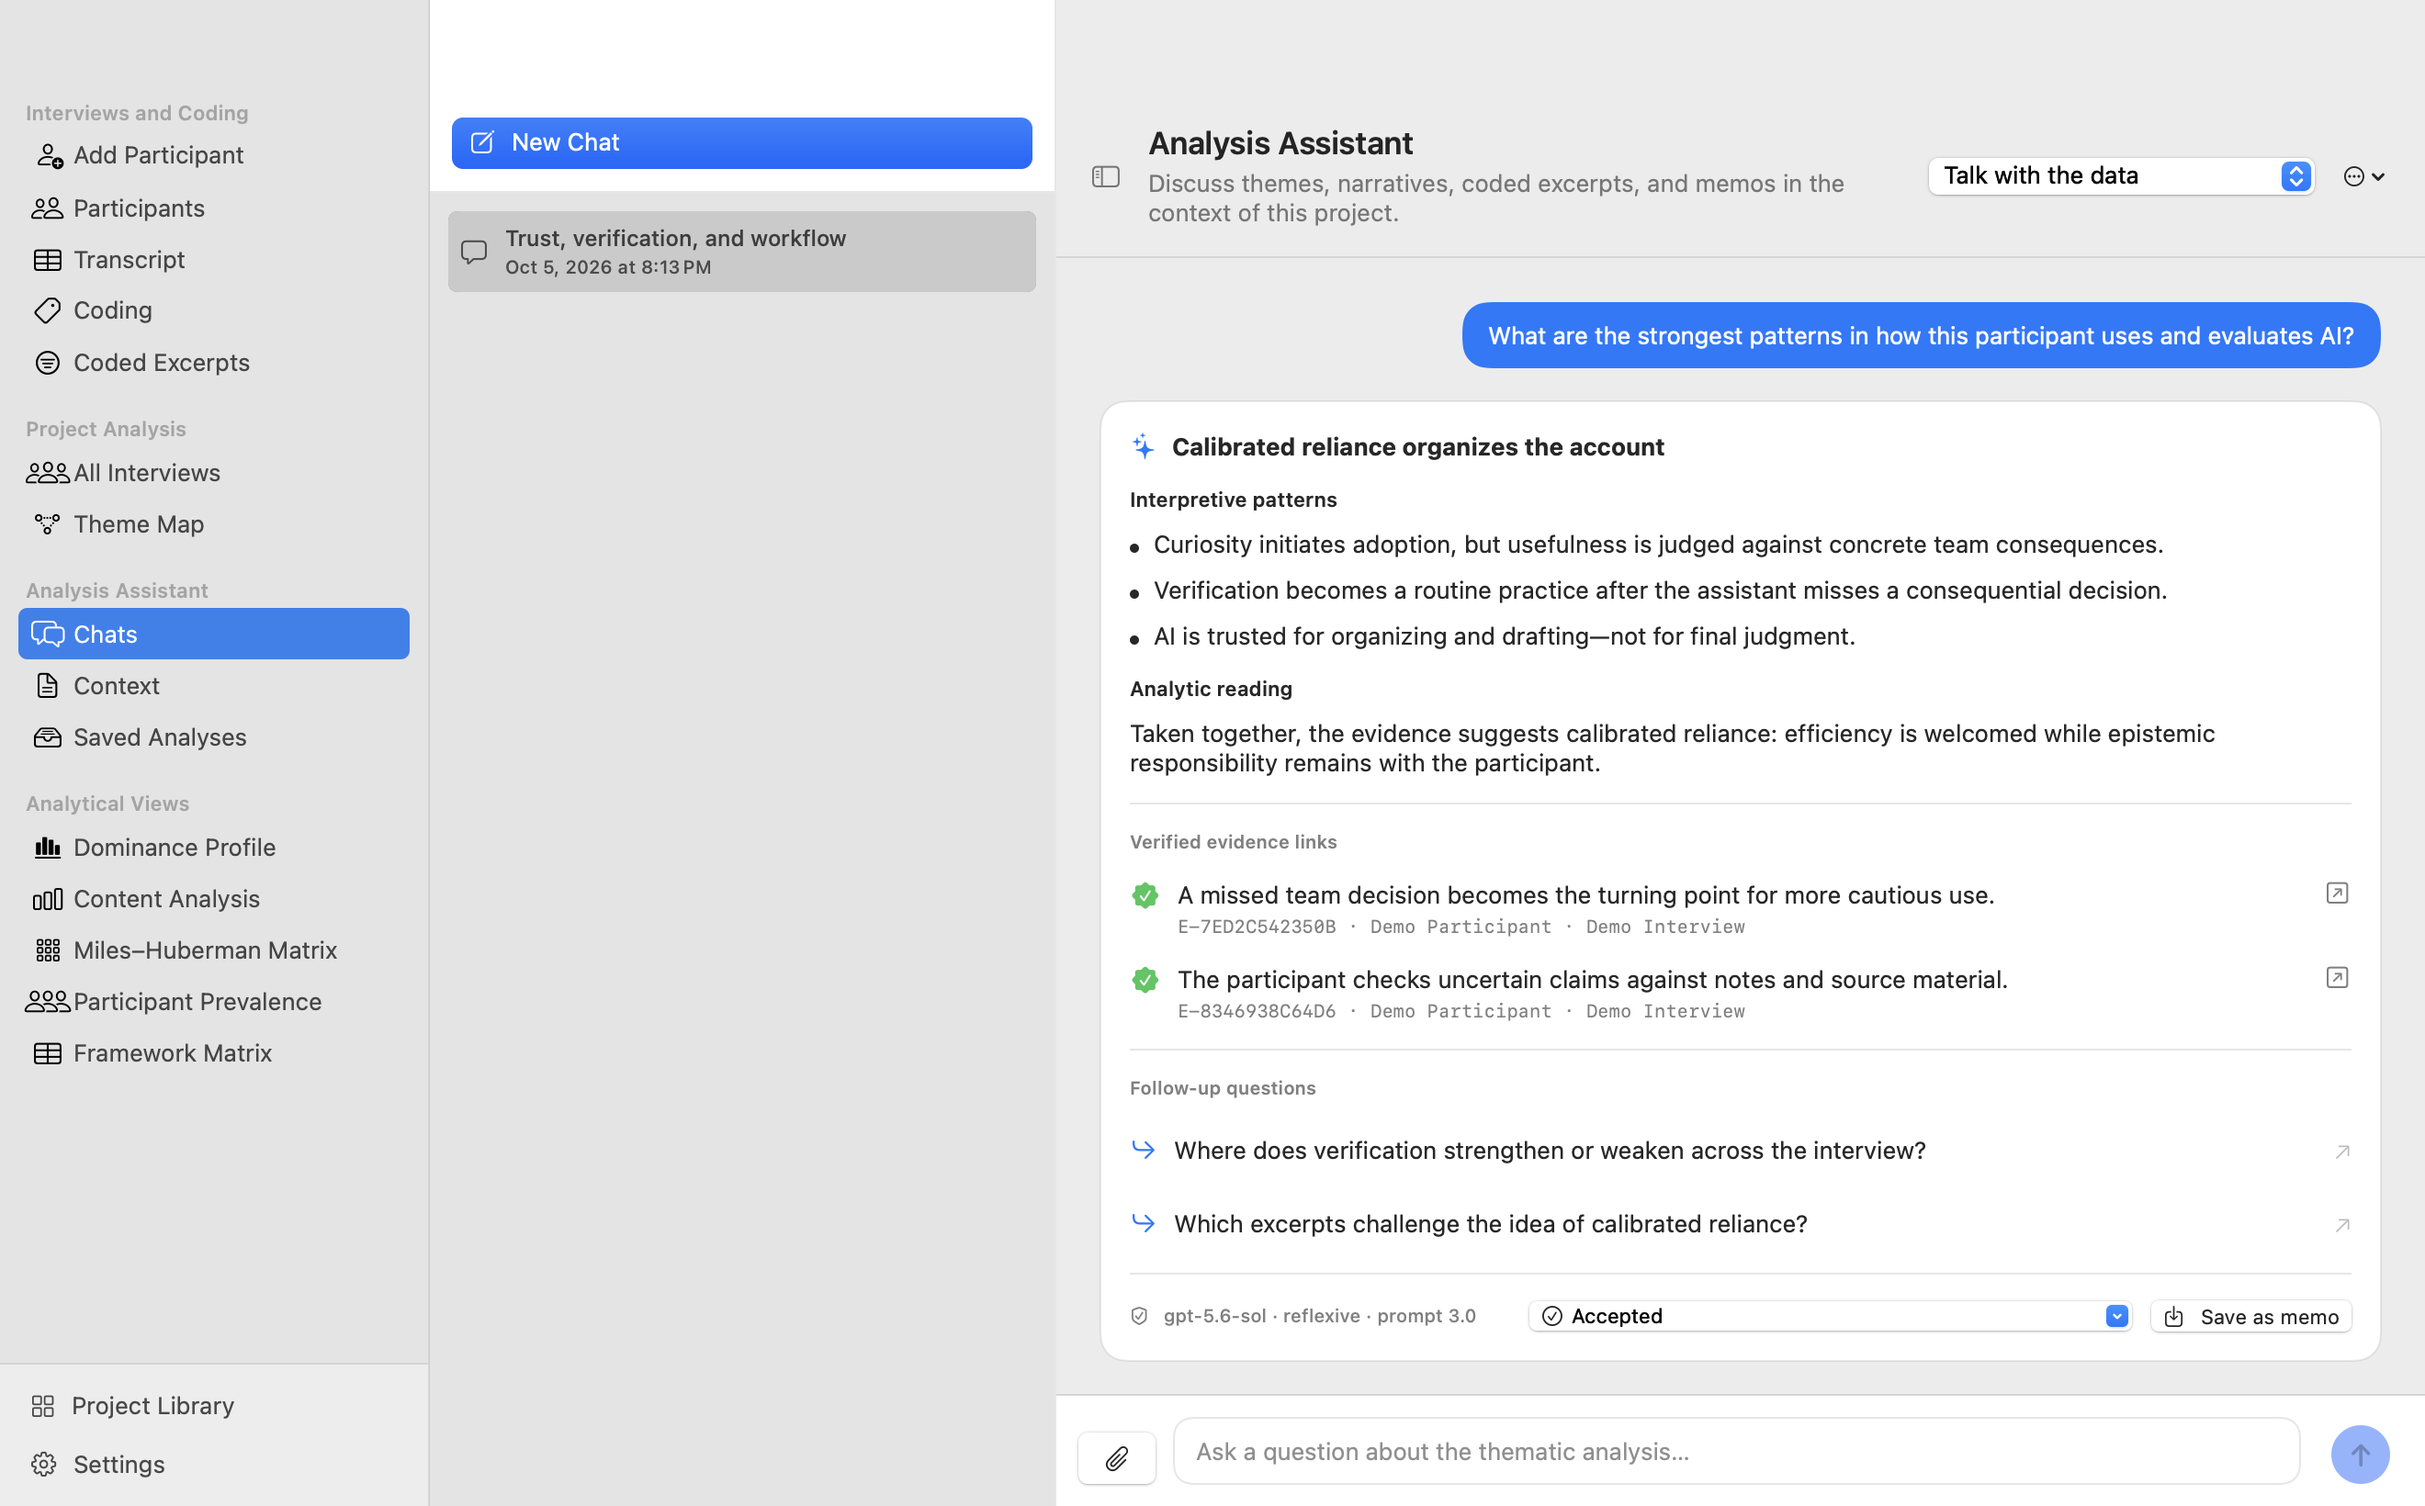
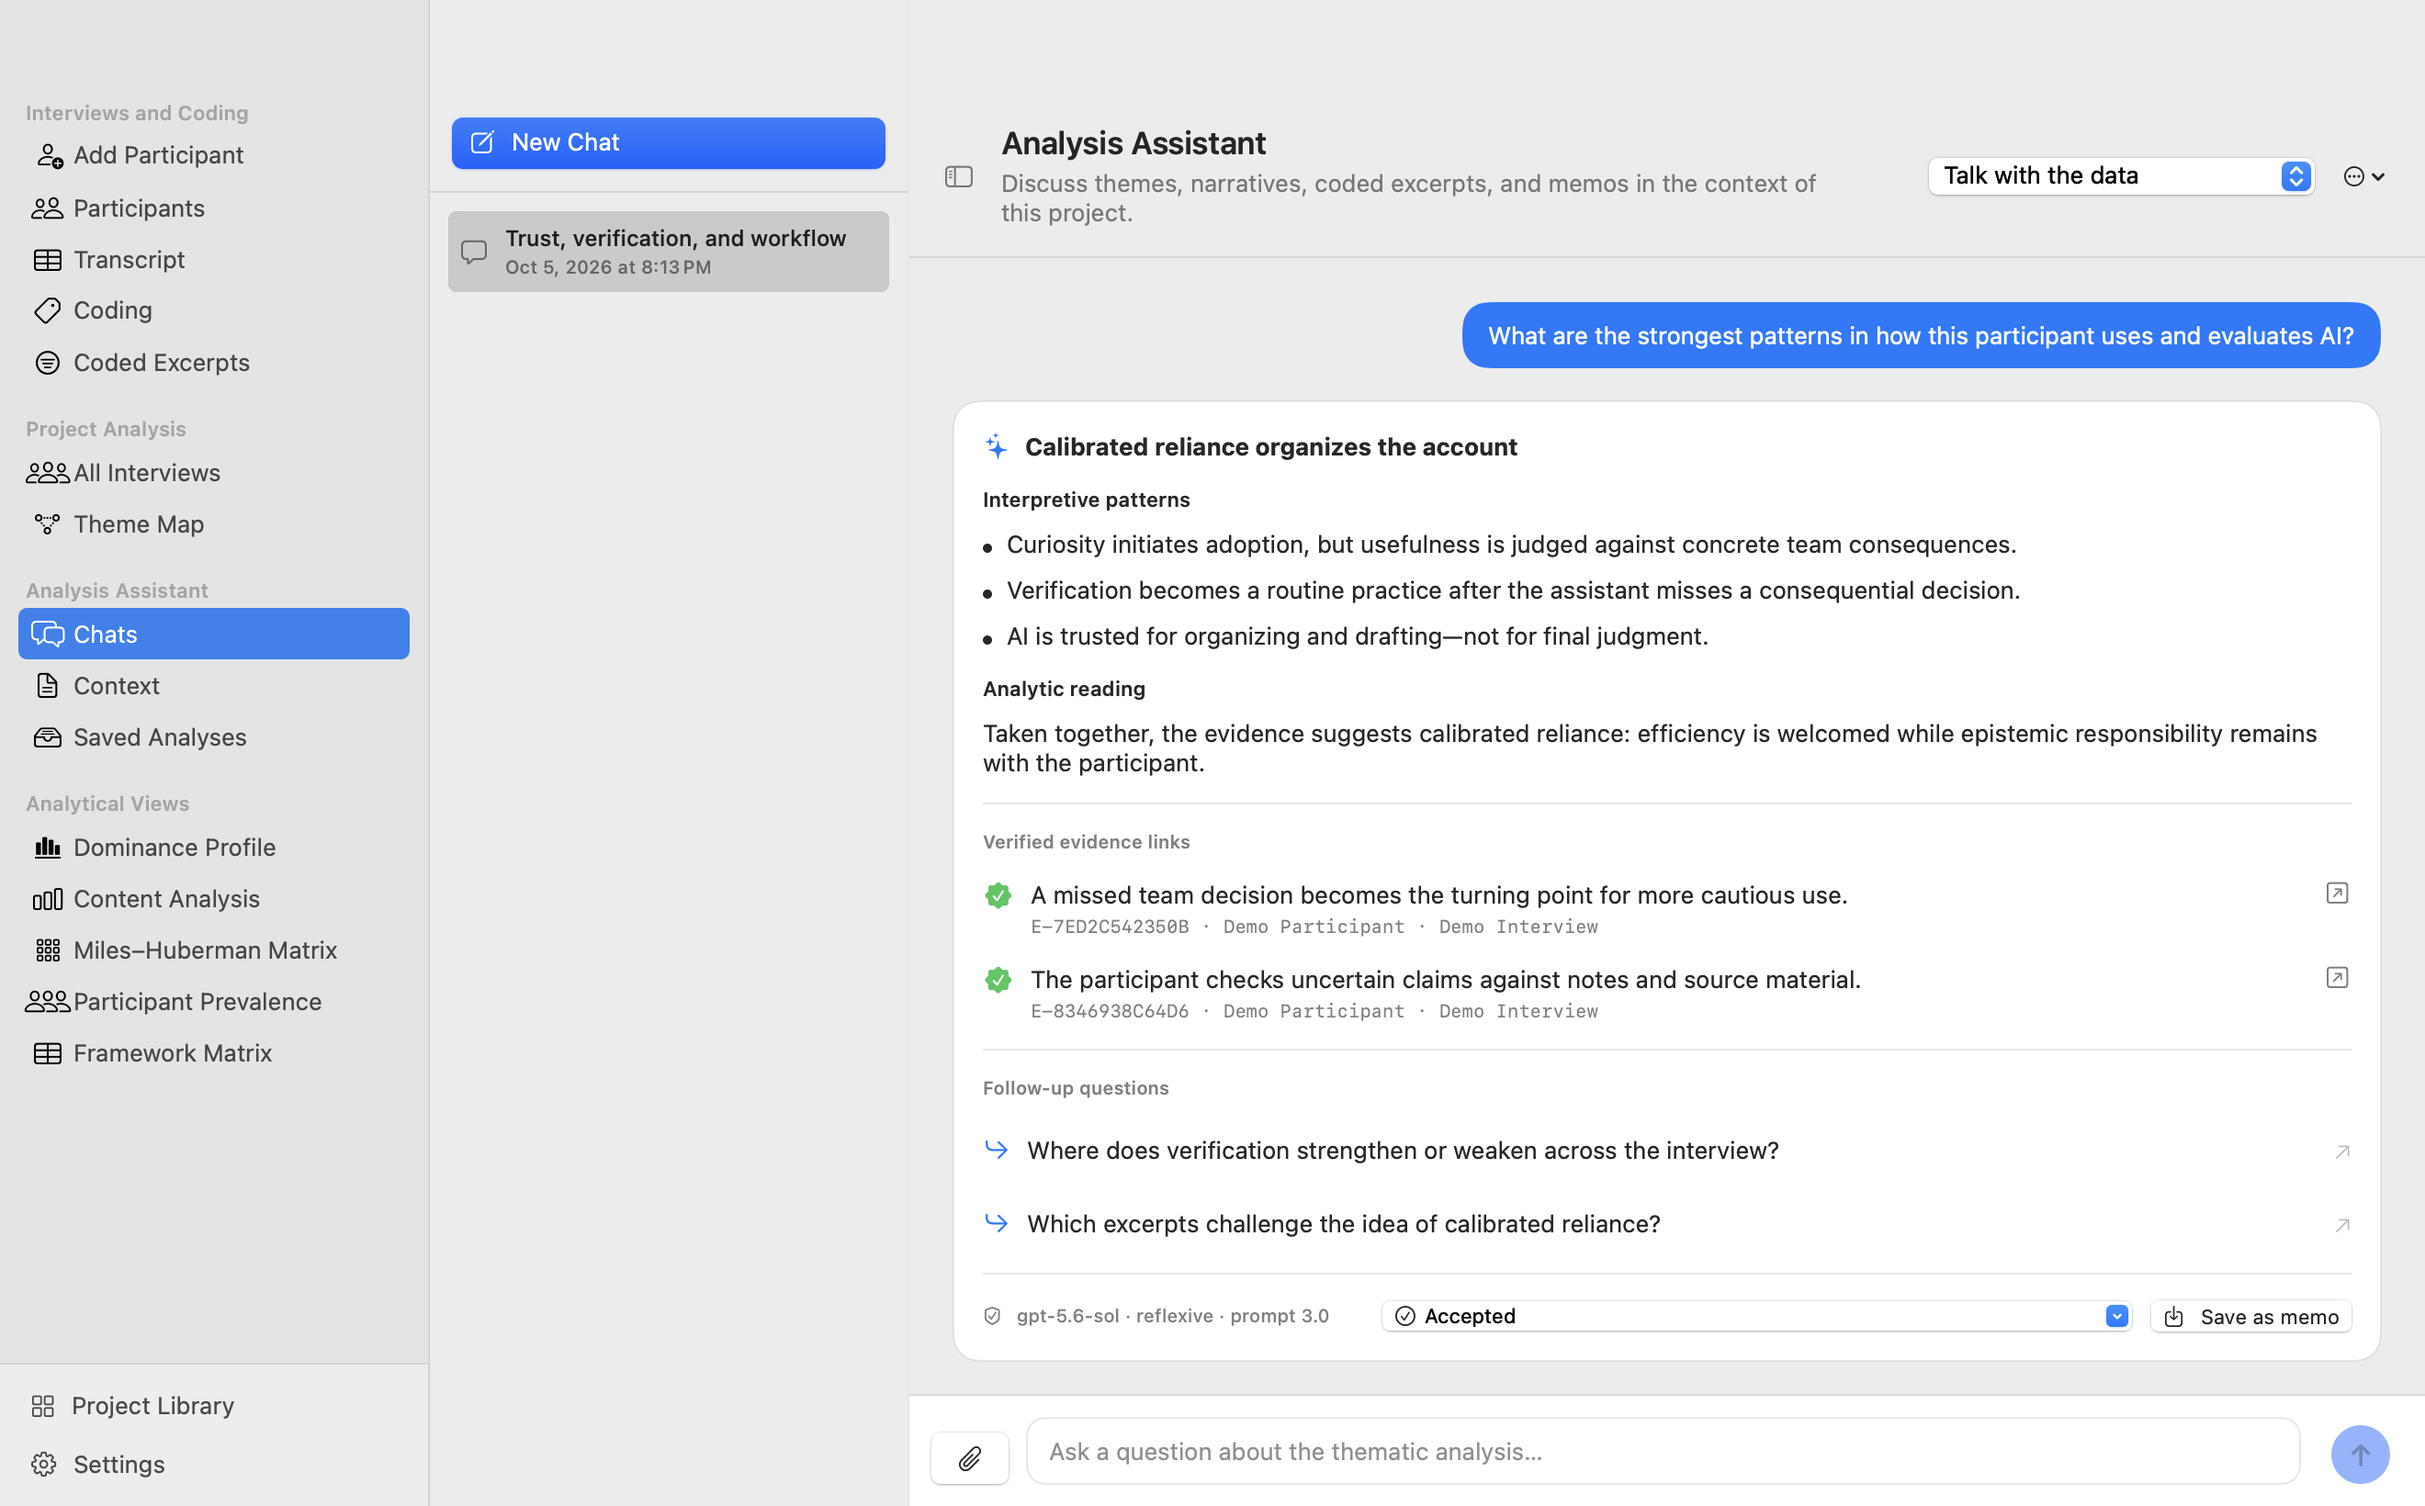
Fix assistant layout and refresh screenshot

diff --git a/Sources/ThematicAnalysis/Views/AnalysisAssistantView.swift b/Sources/ThematicAnalysis/Views/AnalysisAssistantView.swift
@@ -134,10 +134,10 @@ struct AnalysisAssistantView: View {
         HSplitView {
             if showsConversationSidebar {
                 conversationSidebar
-                    .frame(minWidth: 170, idealWidth: 220, maxWidth: 340)
+                    .frame(minWidth: 200, idealWidth: 230, maxWidth: 260)
             }
             assistantDetail
-                .frame(minWidth: 560)
+                .frame(minWidth: 640)
         }
         .fileImporter(
             isPresented: $isImportingFiles,
@@ -233,6 +233,7 @@ struct AnalysisAssistantView: View {
                 }
             }
             .listStyle(.sidebar)
+            .scrollContentBackground(.hidden)
 
             if !conversationStore.persistenceError.isEmpty {
                 Label(conversationStore.persistenceError, systemImage: "exclamationmark.triangle.fill")
@@ -241,7 +242,7 @@ struct AnalysisAssistantView: View {
                     .padding(10)
             }
         }
-        .background(.bar)
+        .background(Color(nsColor: .windowBackgroundColor))
     }
 
     private var header: some View {
